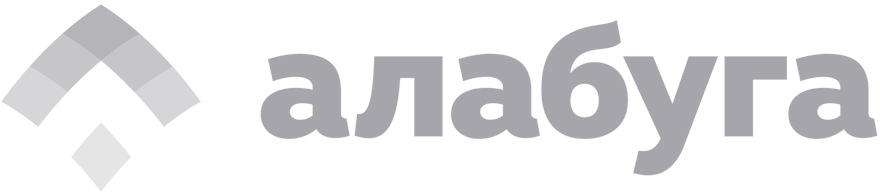
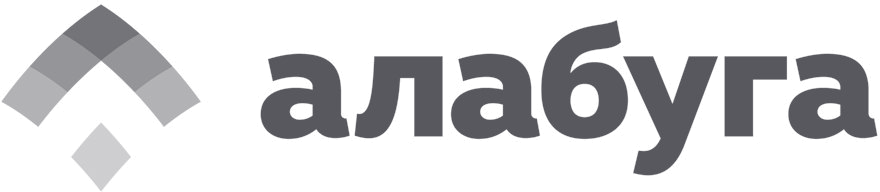
Логотипы партнёров: тёмно-серый цвет, добавлены Минцифры, Химград, Деловая Россия
Прежний светло-серый цвет оказался почти не виден на белом фоне —
перекрасил все логотипы в единый тёмно-серый (82,82,88) и убрал
дополнительную opacity в CSS, которая делала их ещё бледнее.

"Ц" и шестиугольник с прошлого слайда оказались логотипами Минцифры
РТ и Технополиса Химград — раньше принял их за нерасшифрованные
декоративные значки. Добавил оба. Деловую Россию перекрасил из
присланного синего файла. ТПП РТ пока не хватает файла — попросил
прислать повторно.

Changed region(s): [[0.2761, 0.0938, 1.0, 0.9062], [0.0, 0.0312, 0.2455, 0.6562]]

diff --git a/index.html b/index.html
@@ -268,8 +268,11 @@
       <div class="partners-row">
         <img src="assets/partners/minekonomiki.png" alt="Министерство экономики Республики Татарстан">
         <img src="assets/partners/minpromtorg.png" alt="Министерство промышленности и торговли Республики Татарстан">
+        <img src="assets/partners/mintsifry.png" alt="Министерство цифрового развития Республики Татарстан">
         <img src="assets/partners/meria-kazani.png" alt="Мэрия Казани">
+        <img src="assets/partners/himgrad.png" alt="Технополис «Химград»">
         <img src="assets/partners/alabuga.png" alt="ОЭЗ «Алабуга»">
+        <img src="assets/partners/delovaya-rossia.png" alt="Деловая Россия Татарстан">
         <img src="assets/partners/upolnomochenny.png" alt="Уполномоченный при Главе Республики Татарстан по защите прав предпринимателей">
       </div>
     </div>

diff --git a/css/styles.css b/css/styles.css
@@ -587,7 +587,6 @@ a { color: inherit; }
   width: auto;
   max-width: 140px;
   object-fit: contain;
-  opacity: .85;
 }
 
 /* ---------- Footer ---------- */
